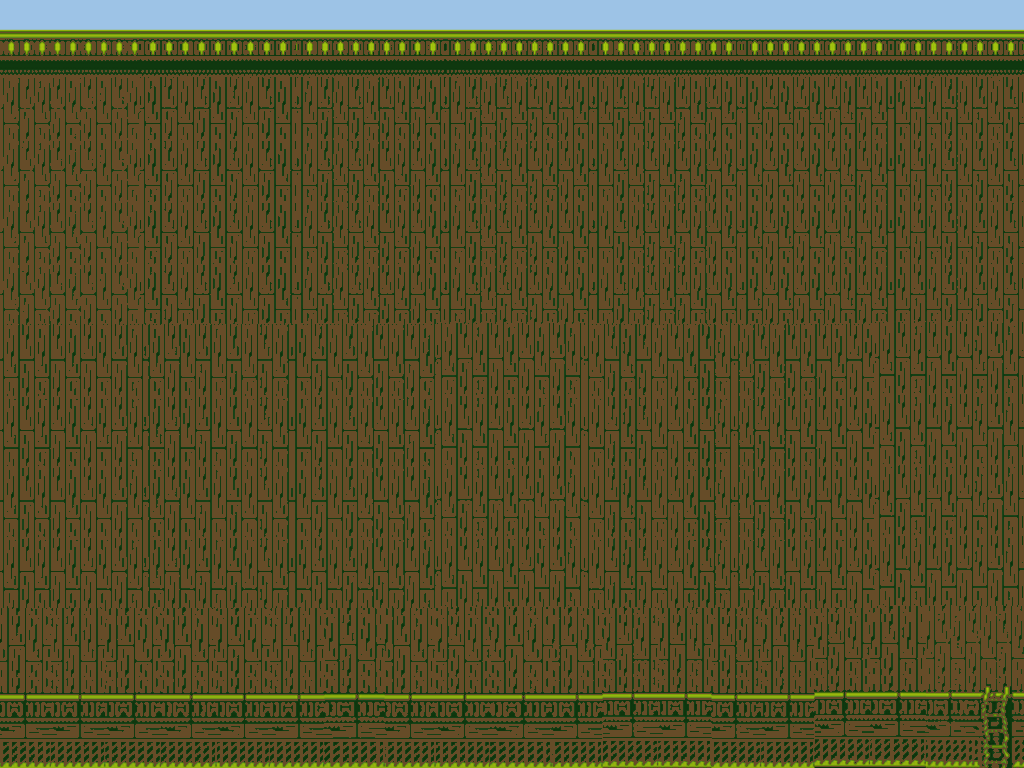
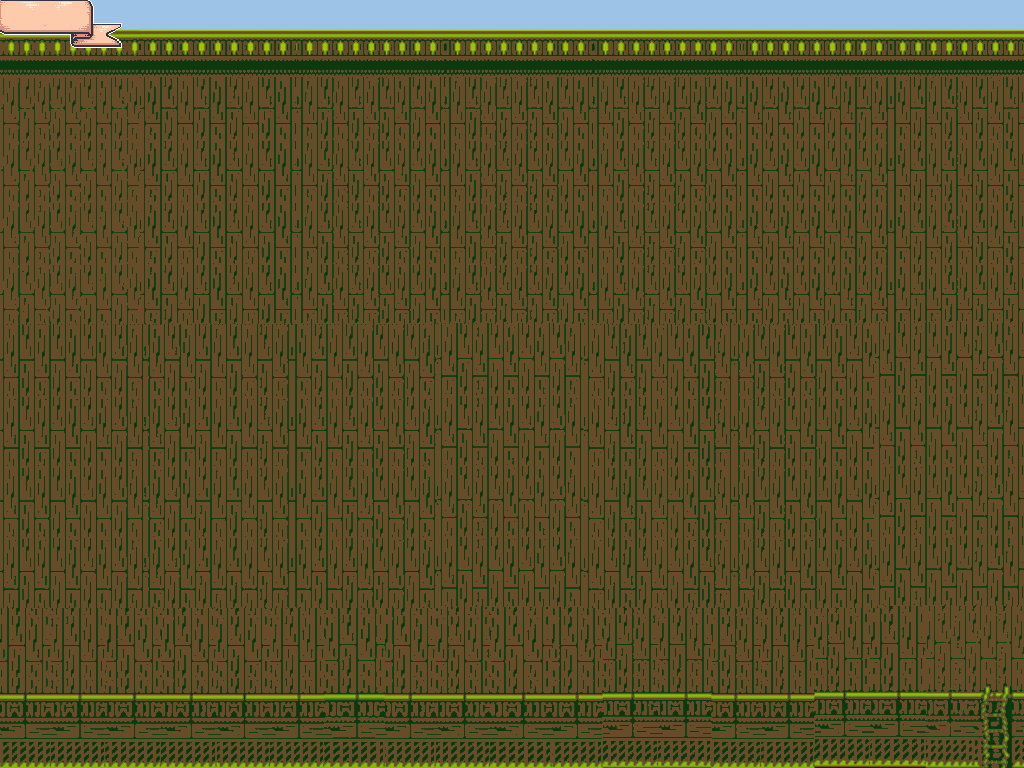
added comments to the project 1 sample solution. added project 2 resource files to the solution. images are now rendered from top left.

Changed region(s): [[0.0, 0.0, 0.125, 0.0625]]

diff --git a/ShadowPirate/src/Sailor.java b/ShadowPirate/src/Sailor.java
@@ -3,9 +3,9 @@ import bagel.util.Colour;
 import bagel.util.Point;
 import bagel.util.Rectangle;
 
-public class Sailor{
-    private final static Image SAILOR_LEFT = new Image("res/sailorLeft.png");
-    private final static Image SAILOR_RIGHT = new Image("res/sailorRight.png");
+public class Sailor {
+    private final static Image SAILOR_LEFT = new Image("res/sailor/sailorLeft.png");
+    private final static Image SAILOR_RIGHT = new Image("res/sailor/sailorRight.png");
     private final static int MOVE_SIZE = 20;
     private final static int MAX_HEALTH_POINTS = 100;
     private final static int DAMAGE_POINTS = 25;
@@ -27,41 +27,47 @@ public class Sailor{
     private final static Colour RED = new Colour(1, 0, 0);
 
     private int healthPoints;
+
+    // points store the top left position
     private int oldX;
     private int oldY;
     private int x;
     private int y;
     private Image currentImage;
 
-    public Sailor(int startX, int startY){
+    private Rectangle sailorBox;
+    private Rectangle oldSailorBox;
+
+    public Sailor(int startX, int startY) {
         this.x = startX;
         this.y = startY;
         this.healthPoints = MAX_HEALTH_POINTS;
         this.currentImage = SAILOR_RIGHT;
+        sailorBox = new Rectangle(startX, startY, currentImage.getWidth(), currentImage.getHeight());
         COLOUR.setBlendColour(GREEN);
     }
 
     /**
      * Method that performs state update
      */
-    public void update(Input input, Block[] blocks){
+    public void update(Input input, Block[] blocks) {
         // store old coordinates every time the sailor moves
         if (input.wasPressed(Keys.UP)){
             setOldPoints();
             move(0, -MOVE_SIZE);
-        }else if (input.wasPressed(Keys.DOWN)){
+        } else if (input.wasPressed(Keys.DOWN)) {
             setOldPoints();
             move(0, MOVE_SIZE);
-        }else if (input.wasPressed(Keys.LEFT)){
+        } else if (input.wasPressed(Keys.LEFT)) {
             setOldPoints();
             move(-MOVE_SIZE,0);
             currentImage = SAILOR_LEFT;
-        }else if (input.wasPressed(Keys.RIGHT)){
+        } else if (input.wasPressed(Keys.RIGHT)) {
             setOldPoints();
             move(MOVE_SIZE,0);
             currentImage = SAILOR_RIGHT;
         }
-        currentImage.draw(x, y);
+        currentImage.drawFromTopLeft(x, y);
         checkCollisions(blocks);
         renderHealthPoints();
     }
@@ -69,11 +75,13 @@ public class Sailor{
     /**
      * Method that checks for collisions between sailor and blocks
      */
-    private void checkCollisions(Block[] blocks){
+    private void checkCollisions(Block[] blocks) {
         // check collisions and print log
-        Rectangle sailorBox = currentImage.getBoundingBoxAt(new Point(x, y));
+
+        // loop through blocks
         for (Block current : blocks) {
             Rectangle blockBox = current.getBoundingBox();
+            // print sailor
             if (sailorBox.intersects(blockBox)) {
                 healthPoints = healthPoints - current.getDAMAGE_POINTS();
                 System.out.println("Block inflicts " + current.getDAMAGE_POINTS() + " damage points on Sailor. " +
@@ -86,35 +94,38 @@ public class Sailor{
     /**
      * Method that moves the sailor given the direction
      */
-    private void move(int xMove, int yMove){
+    private void move(int xMove, int yMove) {
         x += xMove;
         y += yMove;
+        sailorBox = new Rectangle(x, y, currentImage.getWidth(), currentImage.getHeight());
     }
 
     /**
      * Method that stores the old coordinates of the sailor
      */
-    private void setOldPoints(){
+    private void setOldPoints() {
         oldX = x;
         oldY = y;
+        oldSailorBox = new Rectangle(sailorBox);
     }
 
     /**
      * Method that moves the sailor back to its previous position
      */
-    private void moveBack(){
+    private void moveBack() {
         x = oldX;
         y = oldY;
+        sailorBox = new Rectangle(oldSailorBox);
     }
 
     /**
      * Method that renders the current health as a percentage on screen
      */
-    private void renderHealthPoints(){
+    private void renderHealthPoints() {
         double percentageHP = ((double) healthPoints/MAX_HEALTH_POINTS) * 100;
-        if (percentageHP <= RED_BOUNDARY){
+        if (percentageHP <= RED_BOUNDARY) {
             COLOUR.setBlendColour(RED);
-        } else if (percentageHP <= ORANGE_BOUNDARY){
+        } else if (percentageHP <= ORANGE_BOUNDARY) {
             COLOUR.setBlendColour(ORANGE);
         }
         FONT.drawString(Math.round(percentageHP) + "%", HEALTH_X, HEALTH_Y, COLOUR);
@@ -123,22 +134,22 @@ public class Sailor{
     /**
      * Method that checks if sailor's health is <= 0
      */
-    public boolean isDead(){
+    public boolean isDead() {
         return healthPoints <= 0;
     }
 
     /**
      * Method that checks if sailor has reached the ladder
      */
-    public boolean hasWon(){
-        return (x >= WIN_X) && (y > WIN_Y);
+    public boolean hasWon() {
+        return (sailorBox.centre().x >= WIN_X) && (sailorBox.centre().y > WIN_Y);
     }
 
     /**
      * Method that checks if sailor has gone out-of-bound
      */
-    public boolean isOutOfBound(){
-        return (y > BOTTOM_EDGE) || (y < TOP_EDGE) || (x < 0) ||
-                (x > Window.getWidth());
+    public boolean isOutOfBound() {
+        return (sailorBox.centre().y > BOTTOM_EDGE) || (sailorBox.centre().y < TOP_EDGE) || (sailorBox.centre().x < 0) ||
+                (sailorBox.centre().x > Window.getWidth());
     }
 }

diff --git a/ShadowPirate/src/ShadowPirate.java b/ShadowPirate/src/ShadowPirate.java
@@ -7,7 +7,7 @@ import java.io.IOException;
 /**
  * SWEN20003 Project 2, Semester 1, 2022
  *
- * @author Tharun Dharmawickrema
+ * @author Dragan Stojanovski
  * Credits to Tharun Dharmawickrema for Project 1 Sample Solution
  */
 
@@ -28,13 +28,17 @@ public class ShadowPirate extends AbstractGame {
     private final Font FONT = new Font("res/wheaton.otf", FONT_SIZE);
 
     private final static int MAX_ARRAY_SIZE = 49;
+
+    // array to store blocks
     private final static Block[] blocks = new Block[MAX_ARRAY_SIZE];
 
     private Sailor sailor;
+
     private boolean gameOn;
     private boolean gameEnd;
     private boolean gameWin;
 
+    // constructor to set the start of the game
     public ShadowPirate() {
         super(WINDOW_WIDTH, WINDOW_HEIGHT, GAME_TITLE);
         readCSV(WORLD_FILE);
@@ -62,18 +66,22 @@ public class ShadowPirate extends AbstractGame {
             if ((line = reader.readLine()) != null) {
                 String[] sections = line.split(",");
                 if (sections[0].equals("Sailor")) {
+                    // read in sailor data from file
                     sailor = new Sailor(Integer.parseInt(sections[1]), Integer.parseInt(sections[2]));
                 }
             }
 
             int current = 0;
+            // loop through lines in file
             while((line = reader.readLine()) != null) {
                 String[] sections = line.split(",");
                 if (sections[0].equals("Block")) {
+                    // add blocks to array
                     blocks[current] = new Block(Integer.parseInt(sections[1]), Integer.parseInt(sections[2]));
                     current++;
                 }
             }
+
         } catch (IOException e) {
             e.printStackTrace();
             System.exit(-1);
@@ -92,15 +100,18 @@ public class ShadowPirate extends AbstractGame {
             Window.close();
         }
 
+        // if the game has not started
         if (!gameOn) {
             drawStartScreen(input);
         }
 
+        // if the game has started
         if (gameEnd || sailor.isOutOfBound()) {
             gameEnd = true;
             drawEndScreen(END_MESSAGE);
         }
 
+        // if the player has won
         if (gameWin) {
             drawEndScreen(WIN_MESSAGE);
         }
@@ -108,16 +119,20 @@ public class ShadowPirate extends AbstractGame {
         // when game is running
         if (gameOn && !gameEnd && !gameWin) {
 
+            // update each block
             for (Block block : blocks) {
                 block.update();
             }
 
+            // update sailor
             sailor.update(input, blocks);
 
+            // end the game if sailor is dead
             if (sailor.isDead()) {
                 gameEnd = true;
             }
 
+            // end the game is sailor has won
             if (sailor.hasWon()) {
                 gameWin = true;
             }
@@ -128,11 +143,14 @@ public class ShadowPirate extends AbstractGame {
      * Method used to draw the start screen instructions
      */
     private void drawStartScreen(Input input) {
+        // draw start screen messages
+
         FONT.drawString(START_MESSAGE, (Window.getWidth()/2.0 - (FONT.getWidth(START_MESSAGE)/2.0)),
                 FONT_Y_POS);
         FONT.drawString(INSTRUCTION_MESSAGE, (Window.getWidth()/2.0 - (FONT.getWidth(INSTRUCTION_MESSAGE)/2.0)),
                 (FONT_Y_POS + INSTRUCTION_OFFSET));
         if (input.wasPressed(Keys.SPACE)) {
+            // start game if user pressed SPACE
             gameOn = true;
         }
     }
@@ -141,6 +159,7 @@ public class ShadowPirate extends AbstractGame {
      * Method used to draw end screen messages
      */
     private void drawEndScreen(String message) {
+        // draw end screen message
         FONT.drawString(message, (Window.getWidth()/2.0 - (FONT.getWidth(message)/2.0)), FONT_Y_POS);
     }
 }

diff --git a/ShadowPirate/src/Block.java b/ShadowPirate/src/Block.java
@@ -8,7 +8,7 @@ public class Block{
     private final int x;
     private final int y;
 
-    public Block(int startX, int startY){
+    public Block(int startX, int startY) {
         this.x = startX;
         this.y = startY;
     }
@@ -17,14 +17,14 @@ public class Block{
      * Method that performs state update
      */
     public void update() {
-        BLOCK.draw(x, y);
+        BLOCK.drawFromTopLeft(x, y);
     }
 
     public int getDAMAGE_POINTS() {
         return DAMAGE_POINTS;
     }
 
-    public Rectangle getBoundingBox(){
-        return BLOCK.getBoundingBoxAt(new Point(x, y));
+    public Rectangle getBoundingBox() {
+        return BLOCK.getBoundingBox();
     }
 }
